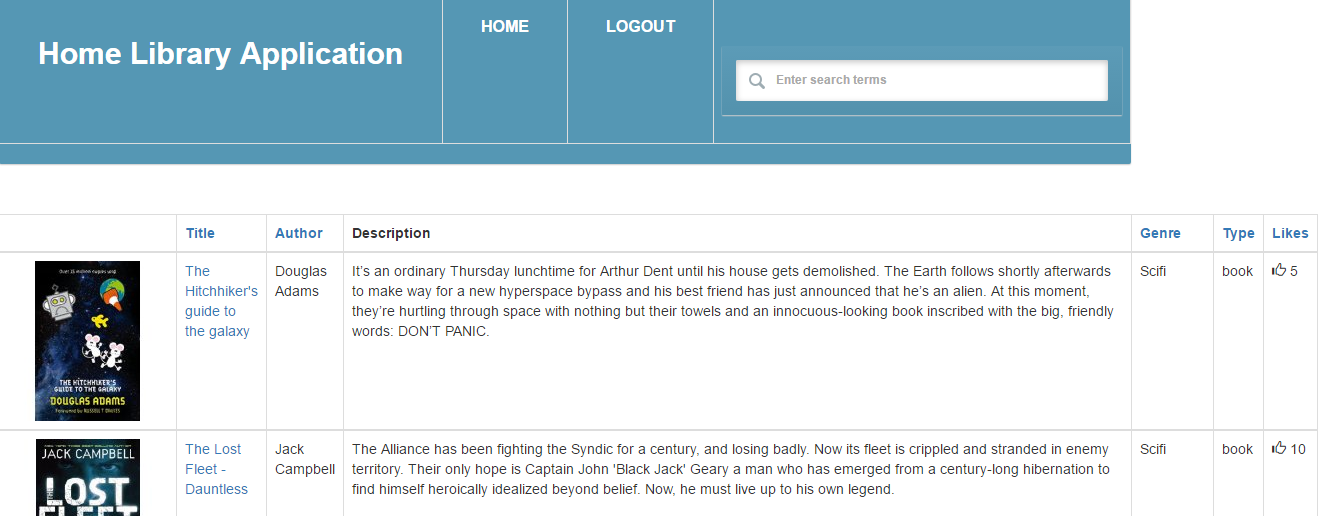
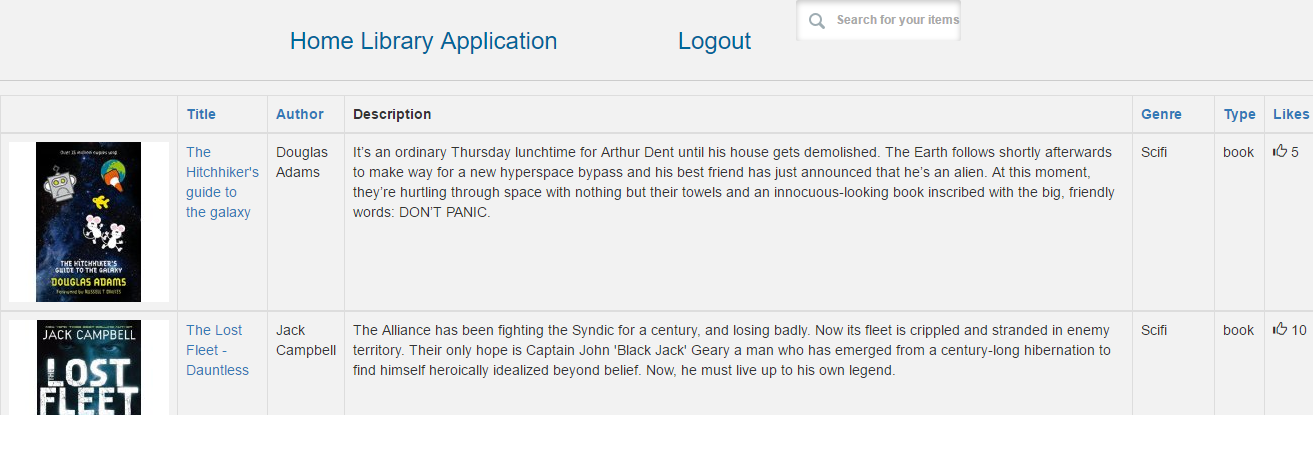
final changes before submitting

diff --git a/HomeLibraryApp/css/custom.css b/HomeLibraryApp/css/custom.css
@@ -5,84 +5,45 @@
 
 body {
       padding-top: 20px;
+    	background-color: #f2f2f2;
     }
 
 /*-------------------------
-	The menu
+	The div menu
 --------------------------*/
 
-nav{
-	display:inline-block;
-	margin:60px auto 45px;
-	background-color:#5597b4;
-	box-shadow:0 1px 1px #ccc;
-	border-radius:2px;
-}
 
-nav h2{
-	padding: 18px 30px;
-	color:#fff !important;
-	font-weight:bold;
-/*	font-size:16px;
-	text-decoration:none !important;*/
-	line-height:1;
-	background-color:transparent;
-
-	-webkit-transition:background-color 0.25s;
-	-moz-transition:background-color 0.25s;
-	transition:background-color 0.25s;
-
-}
-nav a{
-	display:inline-block;
-	padding: 18px 30px;
-	color:#fff !important;
-	font-weight:bold;
-	font-size:16px;
-	text-decoration:none !important;
-	line-height:1;
-	text-transform: uppercase;
-	background-color:transparent;
-
-	-webkit-transition:background-color 0.25s;
-	-moz-transition:background-color 0.25s;
-	transition:background-color 0.25s;
-}
-
-nav a:first-child{
-	border-radius:2px 0 0 2px;
-}
-
-nav a:last-child{
-	border-radius:0 2px 2px 0;
-}
-
-nav.home .home,
-nav.logout .logout{
-	background-color:#e35885;
-}
+#nav {
+	width: 100%;
+	float: left;
+	margin: 0 0 1em 0;
+	padding: 0;
+	background-color: #f2f2f2;
+	border-bottom: 1px solid #ccc;  }
+#nav ul {
+	list-style: none;
+	width: 800px;
+	margin: 0 auto;
+	padding: 0; }
+#nav li {
+	float: left;
+	padding: 8px 15px;
+	vertical-align: middle; }
+#nav li a {
+	display: block;
+	padding: 8px 15px;
+	text-decoration: none;
+	font-weight: bold;
+	color: #069;
+	border-right: 0px solid #ccc; }
+#nav li:first-child a {
+	border-left: 0px solid #ccc; }
+#nav li a:hover {
+	color: #c00;
+	background-color: #fff; }
 
 
-/*-------------------------
-	The search input
---------------------------*/
-
-.bar{
-	background-color:#5c9bb7;
-
-	background-image:-webkit-linear-gradient(top, #5c9bb7, #5392ad);
-	background-image:-moz-linear-gradient(top, #5c9bb7, #5392ad);
-	background-image:linear-gradient(top, #5c9bb7, #5392ad);
-
-	box-shadow: 0 1px 1px #ccc;
-	border-radius: 1px;
-	width: 400px;
-	padding: 14px;
-	margin: 45px auto 20px;
-	position:relative;
-}
-
-.bar input{
+#nav input{
 	background:#fff no-repeat 13px 13px;
[1 lines of base64/hex data omitted]
 

diff --git a/HomeLibraryApp/partials/media-review.html b/HomeLibraryApp/partials/media-review.html
@@ -1,23 +1,13 @@
   <!-- ng-click="$event.preventDefault()" -->
-  <nav class="{{active}}" >
+  <div id="nav">
+  <ul>
+    <li> <a href="#/mediaList/{{UserId}}" class="home" ng-click="active='home'"> <h3 class="Title"> Home Library Application</h3> </a> </li>
+    <li> <a href=""ng-click="$event.preventDefault()"><h3></h3></a></li>
+    <li> <a href="#/" class="logout" ng-click="active='logout'"><h3>Logout</h3></a></li>
+    <li> <input type="text" ng-model="searchString" placeholder="Search for your items" /></li>
+  </ul>
+  </div>
 
-    <table class="table table-bordered">
-        <tr>
-            <td> <h2 class="Title"> Home Library Application</h2> </td>
-            <!-- When a link in the menu is clicked, we set the active variable -->
-            <td> <a href="#/mediaList/{{UserId}}" class="home" ng-click="active='home'">Home</a>  </td>
-            <td> <a href="#/" class="logout" ng-click="active='logout'">Logout</a>  </td>
-            <td> 
-              <!--ng-show="post.link $state.current.name hide this -- >
-                  <div class="bar" ng-show="false">
-                    <!-- Create a binding between the searchString model and the text field -->
-                    <input ng-show="false" type="text" ng-model="searchString" placeholder="Enter search terms" />
-                  </div>  
-             </td>
-        </tr>
-    </table>
-
-  </nav>
 
 
  <div class="col-md-8 col-md-offset-2">

diff --git a/HomeLibraryApp/partials/media-list.html b/HomeLibraryApp/partials/media-list.html
@@ -1,24 +1,16 @@
 <div>
   <!-- ng-click="$event.preventDefault()" -->
-  <nav class="{{active}}" >
+	
+  <div id="nav">
+  <ul>
+    <li> <a href="#/mediaList/{{UserId}}" class="home" ng-click="active='home'"> <h3 class="Title"> Home Library Application</h3> </a> </li>
+    <li> <a href=""ng-click="$event.preventDefault()"><h3></h3></a></li>
+    <li> <a href="#/" class="logout" ng-click="active='logout'"><h3>Logout</h3></a></li>
+    <li> <input type="text" ng-model="searchString" placeholder="Search for your items" /></li>
+  </ul>
+  </div>
 
-    <table class="table table-bordered">
-        <tr>
-            <td> <h2 class="Title"> Home Library Application</h2> </td>
-            <!-- When a link in the menu is clicked, we set the active variable -->
-            <td> <a href="#/mediaList/{{UserId}}" class="home" ng-click="active='home'">Home</a>  </td>
-            <td> <a href="#/" class="logout" ng-click="active='logout'">Logout</a>  </td>
-            <td> 
-                  <div class="bar">
-                    <!-- Create a binding between the searchString model and the text field -->
-                    <input type="text" ng-model="searchString" placeholder="Enter search terms" />
-                  </div>  
-             </td>
-        </tr>
-    </table>
-
-  </nav>
-
+      
 <!-- ng-controller="ContactsController" -->
 
   <div  >

diff --git a/README.md b/README.md
@@ -60,9 +60,13 @@ library\mediaListMarge.json
 
 ![][image4]
 
+![][image5]
+
+![][image6]
+
+
 ###Routing.
 
-. . . . List each route supported and state the associated view . . . . . 
 + /login - login screen
 + /login/:loginError - login screen after login failure. Provides failure feedback 
 + /register - register user screen
@@ -74,11 +78,10 @@ library\mediaListMarge.json
 Implemented a user login as well as associated authentication. Username and password entered is compared against details in user.json file.
 If comparision fails then user is returned to login screen.
 
-###Independent learning.
-
-. . . . . State the non-standard aspects of Angular (or other related technologies) that you researched and applied in this assignment . . . . .  
 
 [image1]: ./model.png
 [image2]: ./design.png
 [image3]: ./screenLogin.png
 [image4]: ./screenHome.png
+[image5]: ./screenAddReviews.png
+[image6]: ./screenRegister.png
